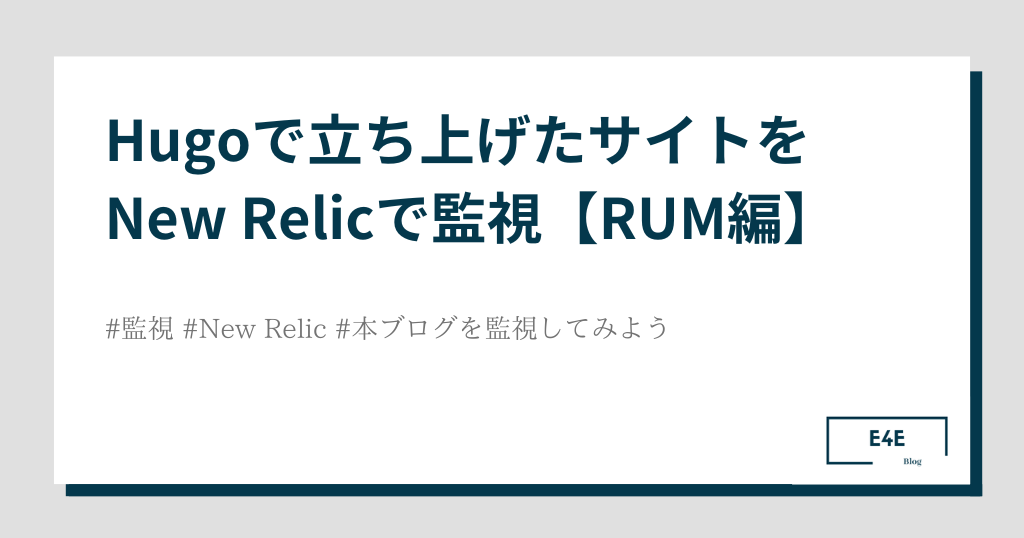
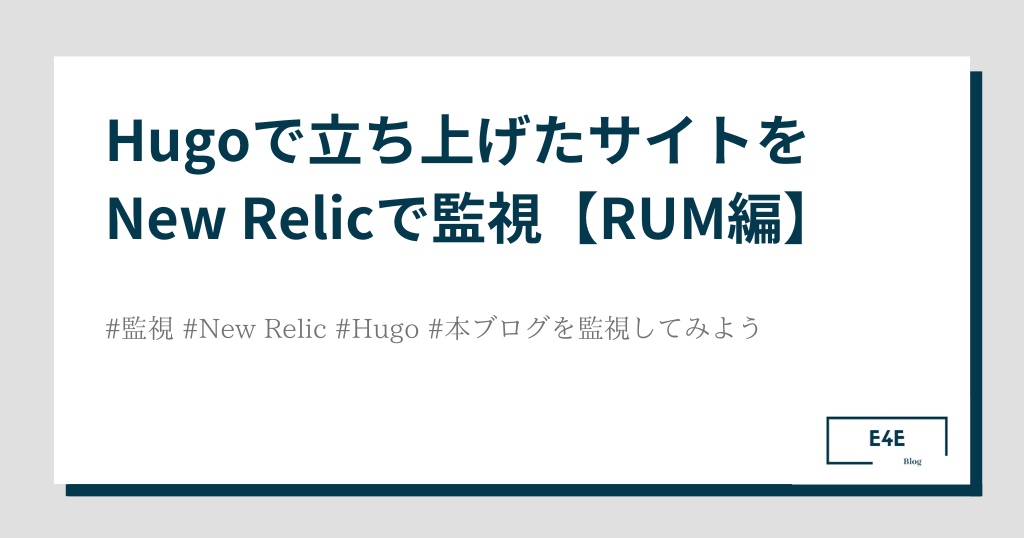
add: article9

Changed region(s): [[0.3438, 0.5651, 0.75, 0.6543]]

diff --git a/content/posts/9.md b/content/posts/9.md
@@ -1,0 +1,145 @@
+---
+title: "Hugoで立ち上げたサイトをNew Relicで監視【デプロイ監視編】"
+date: "2024-09-04"
+summary: "Hugoで立ち上げた本ブログをNew Relicでデプロイ監視してみようというお話"
+tags: ["監視", "New Relic", "Hugo", "Netlify", "本ブログを監視してみよう"]
+TocOpen: true
+cover:
+  image: images/posts/9/cover.png
+---
+
+## はじめに
+
+どうも。
+
+「[入門 監視](https://www.oreilly.co.jp/books/9784873118642/)」という名著の内容を実践したいので、アプリケーション監視の一つであるデプロイ監視を本ブログに対して実施してみます。  
+監視SaaSはNew Relicを使います。
+
+この記事のゴールは、**デプロイ監視において基本的に何を監視するものなのかを理解して実践すること**です。  
+これを通して、監視スキルの向上を目指します。
+
+なお、本記事は「本ブログを監視してみよう」というシリーズの一記事となっています。  
+全ての記事は以下からご覧ください。
+
+[本ブログを監視してみよう]({{% ref "/tags/本ブログを監視してみよう/" %}})
+
+## デプロイ監視で何を監視するのか
+
+基本的には以下のようなものを監視します。
+
+- 何がデプロイされたか
+- 誰がデプロイしたのか
+- デプロイがいつ始まりいつ終わったのか
+- デプロイは成功したのか失敗したのか
+
+他のメトリクスと組み合わせて効果を発揮するのがデプロイ監視です。
+
+たとえば、急にページロード時間が長くなってしまったとします。  
+このとき、ある機能デプロイ直後からページロード時間が長くなったというデータが得られれば有益ですよね。
+
+## New Relicでデプロイ監視
+
+では実際に設定してみます。  
+本ブログはNetlifyでホストしているので、NetlifyとNew Relicを連携して監視する方針とします。
+
+サイドバーの［Integrations & Agents］をクリックします。
+
+{{< figure src="/images/posts/9/001.png" alt="New Relic1" >}}
+
+「netlify」で検索して［Netlify Builds］をクリックします。
+
+{{< figure src="/images/posts/9/002.png" alt="New Relic2" >}}
+
+［Begin installation］をクリックします。
+
+{{< figure src="/images/posts/9/003.png" alt="New Relic3" >}}
+
+ライセンスキーは今まで発行したことがないので［Create a new key］をクリックします。
+
+{{< figure src="/images/posts/9/004.png" alt="New Relic4" >}}
+
+［Continue］をクリックします。
+
+{{< figure src="/images/posts/9/005.png" alt="New Relic5" >}}
+
+表示された通りに進めていきます。  
+まずは①の［Copy license key］をクリックしてライセンスキーをコピーします。  
+次に②のリンクをクリックします。  
+Netlifyの画面に遷移します。
+
+{{< figure src="/images/posts/9/006.png" alt="New Relic6" >}}
+
+［Integrations］をクリックして「New Relic」と入力します。  
+次に［New Relic］の［Enable］をクリックします。
+
+{{< figure src="/images/posts/9/007.png" alt="New Relic7" >}}
+
+［engineering-for-engineer.info］をクリックします。
+
+{{< figure src="/images/posts/9/008.png" alt="New Relic8" >}}
+
+［Install］をクリックします。
+
+{{< figure src="/images/posts/9/009.png" alt="New Relic9" >}}
+
+画像下の表の通り入力して［Install plugin］をクリックします。
+
+{{< figure src="/images/posts/9/010.png" alt="New Relic10" >}}
+
+| 項目名                          | 値                       |
+| ------------------------------ | ------------------------ |
+| `NEWRELIC_ACCOUNT_ID`          | 後述                      |
+| `NEWRELIC_INGEST_LICENSE_KEY`  | 先ほどコピーしたライセンスキー |
+| `NEWRELIC_BROWSER_LICENSE_KEY` | 後述                      |
+| `NEWRELIC_APP_ID`              | 後述                      |
+| `ENABLE_BROWSER_MONITORING`    | `true`固定                |
+
+`NEWRELIC_ACCOUNT_ID`などの確認方法を解説します。
+
+`NEWRELIC_ACCOUNT_ID`については先ほどのNew Relicの画面の⑤に記載があります。
+
+{{< figure src="/images/posts/9/011.png" alt="New Relic11" >}}
+
+`NEWRELIC_BROWSER_LICENSE_KEY`と`NEWRELIC_APP_ID`については以下画像の通り、New Relicの［Browser > Engineering for Engineer > Application settings］にあるスニペットに記載してあります。  
+それぞれスニペット4行目の`licenseKey`、`applicationID`が該当するデータです。
+
+{{< figure src="/images/posts/9/012.png" alt="New Relic12" >}}
+
+最終的に以下のような感じで入力できたら［Install plugin］をクリックします。
+
+{{< figure src="/images/posts/9/013.png" alt="New Relic13" >}}
+
+［Sites > Engineering for Engineer > Site configuration > Environment variables］をクリックします。  
+［Add a variable］をクリックします。
+
+{{< figure src="/images/posts/9/015.png" alt="New Relic15" >}}
+
+先ほどの`NEWRELIC_ACCOUNT_ID`などと同様の情報を一つずつ登録していきます。  
+以下のようになったらOKです。
+
+{{< figure src="/images/posts/9/016.png" alt="New Relic16" >}}
+
+New Relicに戻ります。  
+［Continue］をクリックします。
+
+{{< figure src="/images/posts/9/011.png" alt="New Relic11" >}}
+
+［See your data］をクリックします。
+
+{{< figure src="/images/posts/9/014.png" alt="New Relic14" >}}
+
+［Dashboards > Builds Events］をクリックします。  
+詳細は割愛しますが、デプロイ関連の様々なメトリクスを確認可能です。
+
+{{< figure src="/images/posts/9/017.png" alt="New Relic17" >}}
+
+## まとめ
+
+デプロイ監視においては以下を監視するのが基本です。
+
+- 何がデプロイされたか
+- 誰がデプロイしたのか
+- デプロイがいつ始まりいつ終わったのか
+- デプロイは成功したのか失敗したのか
+
+ではでは。
